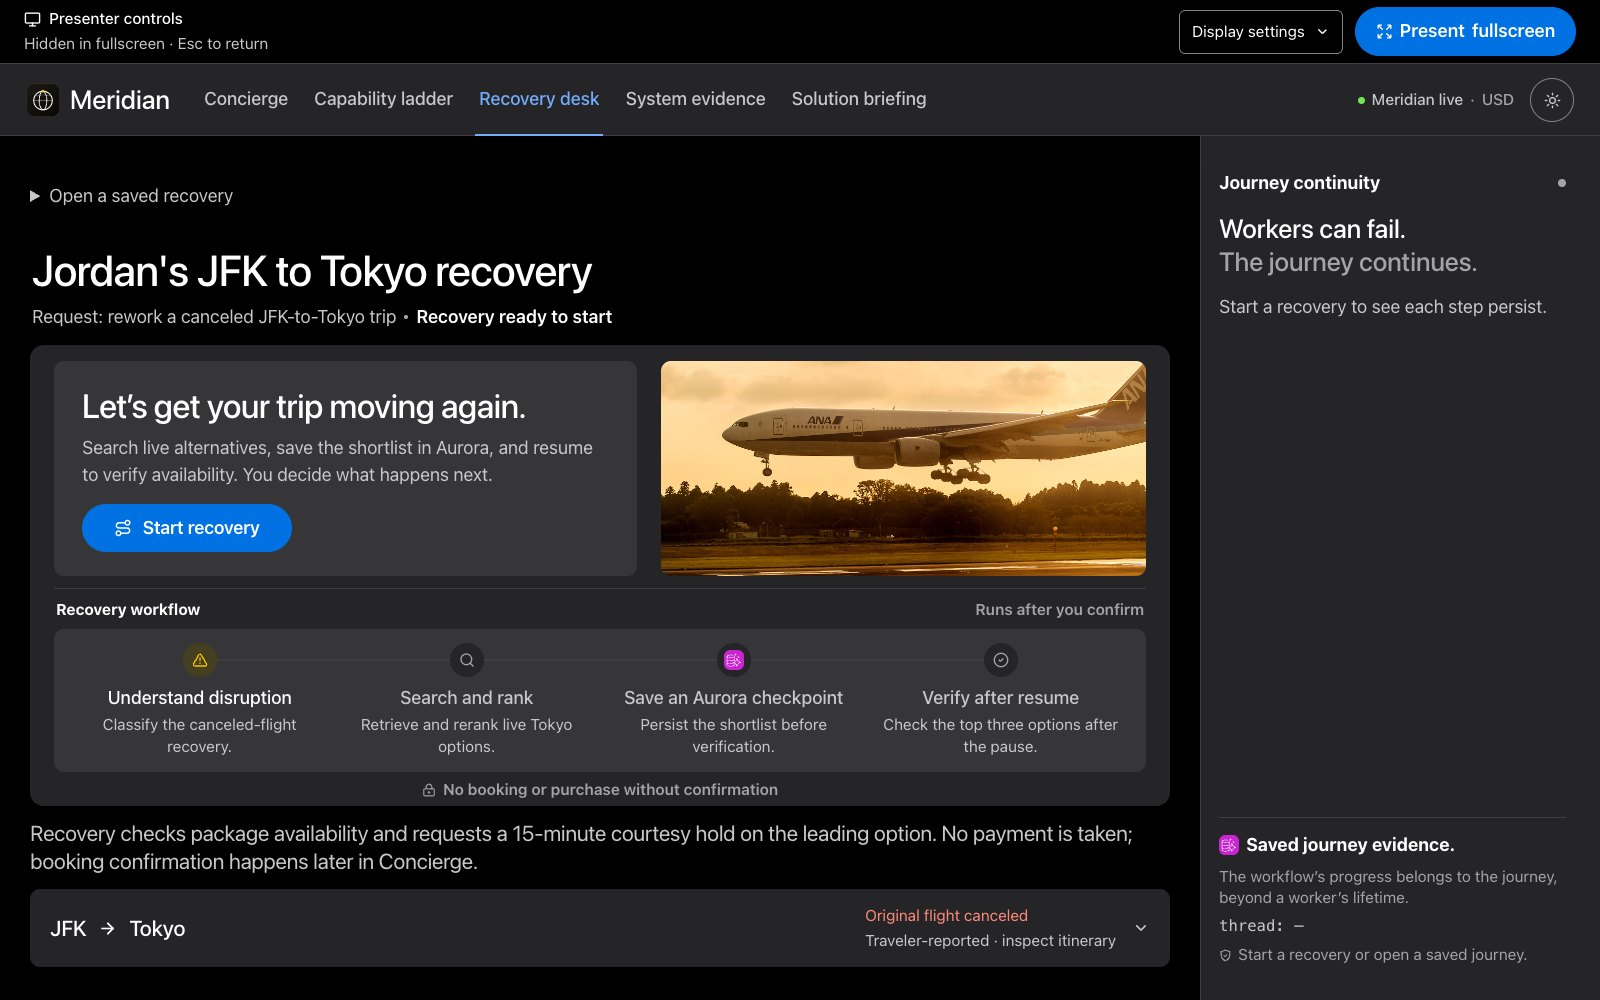
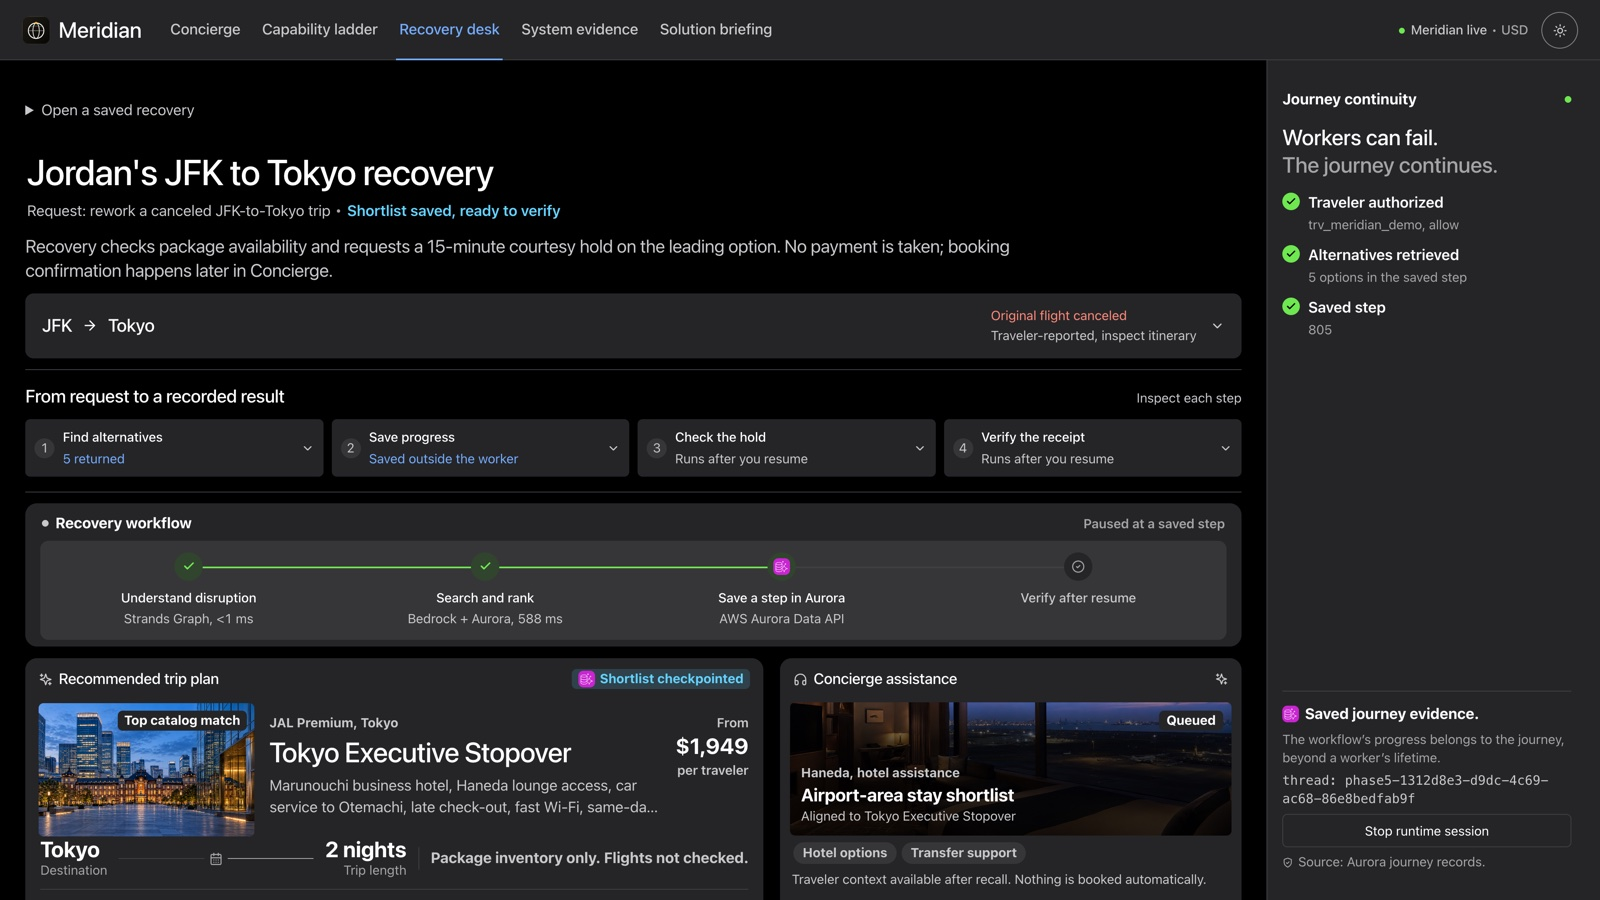
Refresh README screenshots with the current captures
Replace the concierge, solution briefing and recovery images with the
2026-10-07 hosted captures so they show the Strands Graph wording and
saved-step language. The recovery image now shows the paused state, so
its alt text describes that state.

Claude-Session: https://claude.ai/code/session_01PiKzc5toiUq9JvimoCbG46

diff --git a/meridian/README.md b/meridian/README.md
@@ -105,7 +105,7 @@ A Data API transaction keeps the RLS role and traveler scope together for one
 unit of work; it is not long-lived workflow state. See
 [docs/STATEFUL_ARCHITECTURE.md](docs/STATEFUL_ARCHITECTURE.md).
 
-![Recovery desk before a run: the traveler-reported disruption, the 15-minute courtesy hold explanation and the Start recovery action](docs/meridian-recovery.jpg)
+![Recovery desk paused at a saved step: the shortlist saved to Aurora and the journey continuity panel](docs/meridian-recovery.jpg)
 
 ## Recovery behavior
 
